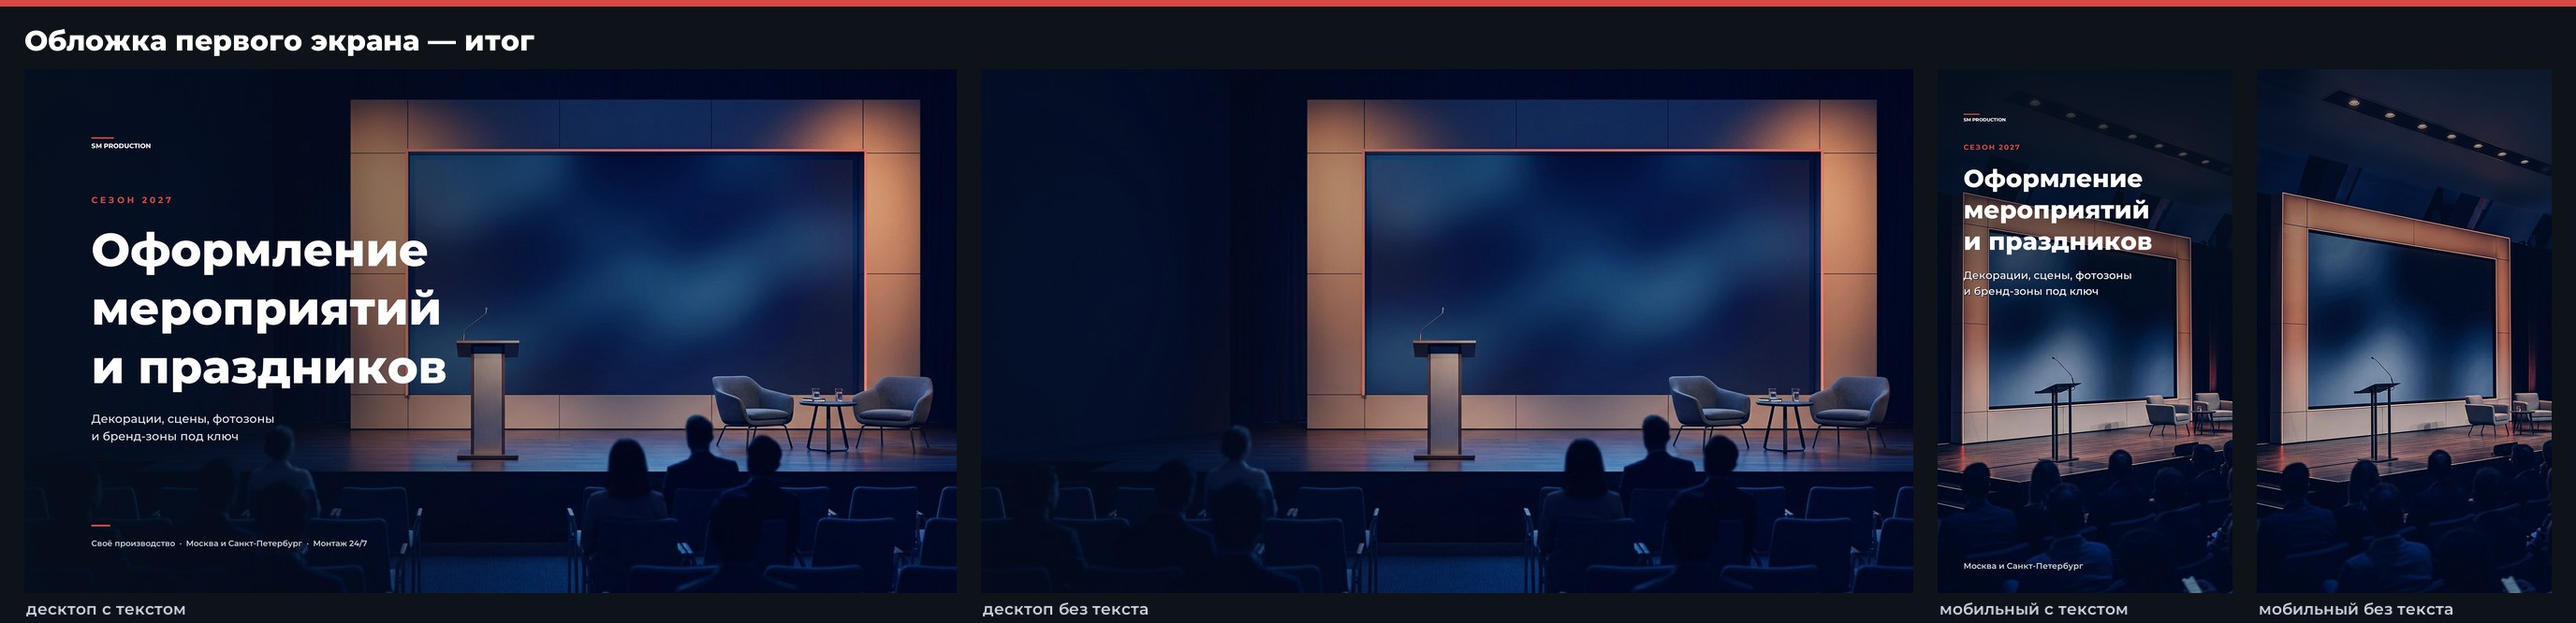
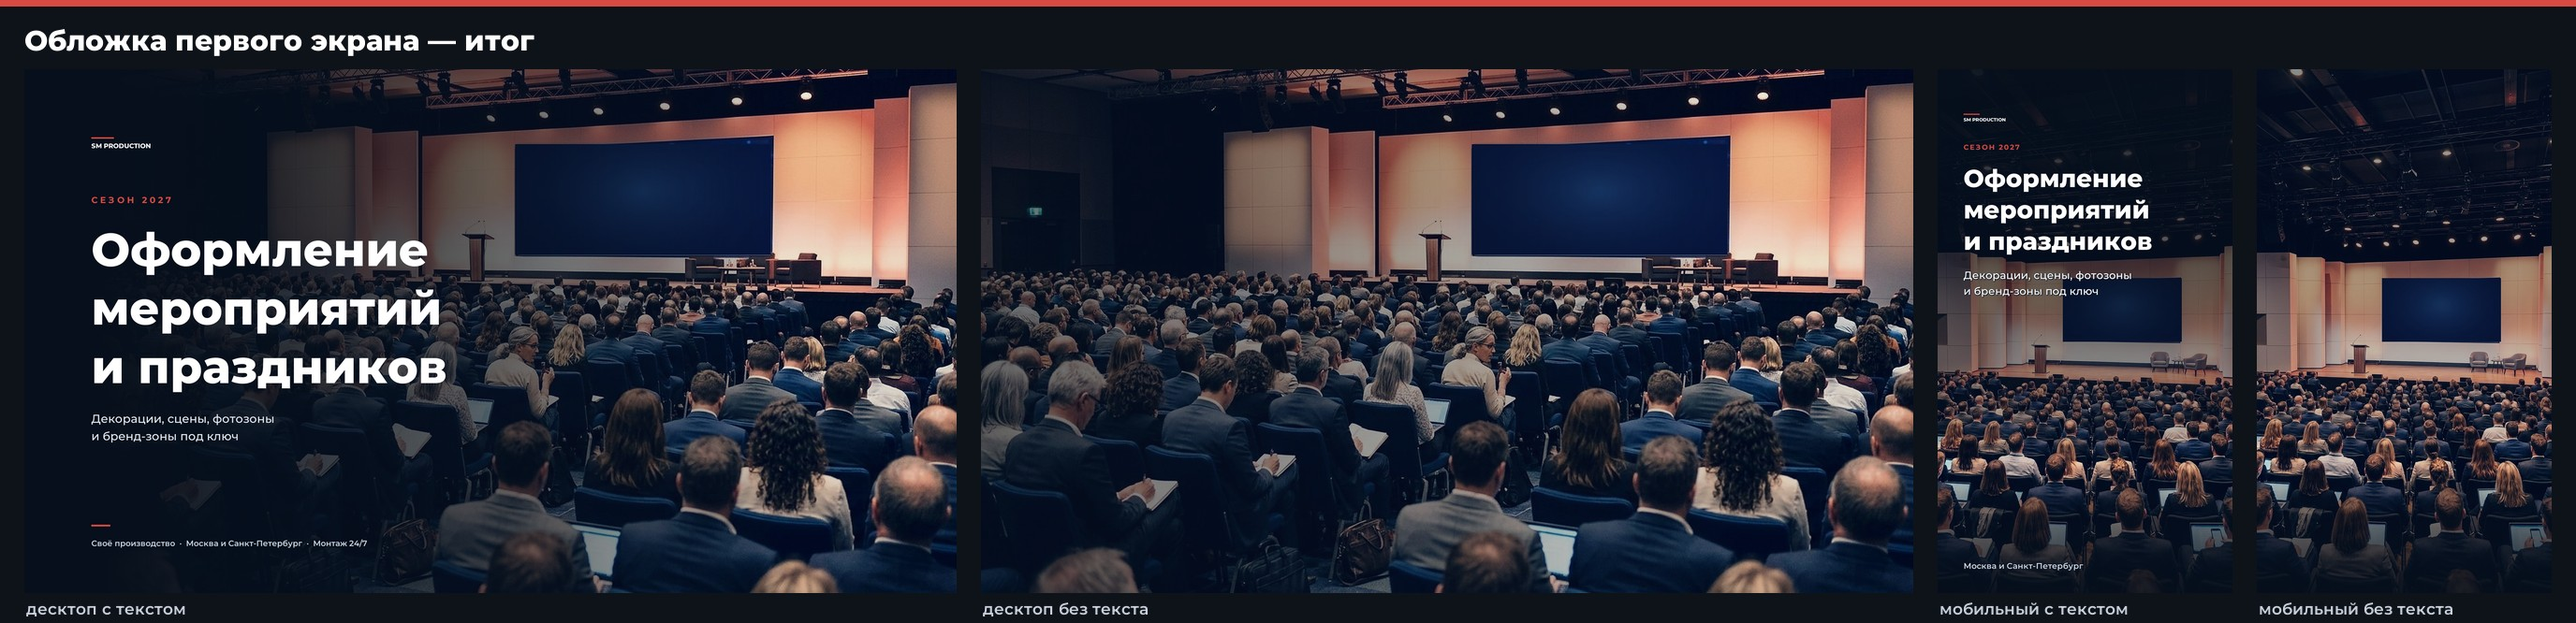
Fill the hall with realistic attendees, empty lectern, clean LED wall

diff --git a/marketing/site-hero/build_cover.py b/marketing/site-hero/build_cover.py
@@ -161,6 +161,14 @@ def text_scrim(image: Image.Image, side: str = "left", strength: int = 238,
             t = 1 - y / band
             d.rectangle([0, y, w, y + 1], fill=(6, 15, 27, int(strength * t ** power)))
 
+    if side == "top":
+        # нижняя подпись стоит на светящихся экранах ноутбуков — гасим отдельной полосой
+        foot = int(h * 0.22)
+        for i in range(foot):
+            y = h - 1 - i
+            t = 1 - i / foot
+            d.rectangle([0, y, w, y + 1], fill=(6, 15, 27, int(238 * t ** 0.55)))
+
     if veil:
         veil_layer = Image.new("RGBA", (w, h), (6, 15, 27, veil))
         layer = Image.alpha_composite(layer, veil_layer)
@@ -211,9 +219,9 @@ def lockup(draw, x: int, y: int, size: int, accent=CORAL, fill=WHITE) -> int:
 
 def compose_desktop(image: Image.Image, with_text: bool) -> Image.Image:
     w, h = image.size
-    img = text_scrim(vignette(grade(image), 0.30), "left", 218, fade=0.70, power=1.05)
+    img = text_scrim(vignette(grade(image), 0.30), "left", 272, fade=0.80, power=0.58)
     if not with_text:
-        return text_scrim(vignette(grade(image), 0.30), "left", 120, fade=0.70, power=1.05)
+        return text_scrim(vignette(grade(image), 0.30), "left", 140, fade=0.80, power=0.58)
 
     draw = ImageDraw.Draw(img)
     m = round(w * 0.072)
@@ -251,9 +259,9 @@ def compose_desktop(image: Image.Image, with_text: bool) -> Image.Image:
 
 def compose_mobile(image: Image.Image, with_text: bool) -> Image.Image:
     w, h = image.size
-    img = text_scrim(vignette(grade(image), 0.30), "top", 232, fade=0.62, power=0.9)
+    img = text_scrim(vignette(grade(image), 0.30), "top", 244, fade=0.74, power=0.62)
     if not with_text:
-        return text_scrim(vignette(grade(image), 0.32), "top", 110, fade=0.62, power=0.9)
+        return text_scrim(vignette(grade(image), 0.32), "top", 110, fade=0.74, power=0.62)
 
     draw = ImageDraw.Draw(img)
     m = round(w * 0.088)
@@ -298,8 +306,8 @@ def save(image: Image.Image, name: str, max_kb: int) -> None:
 
 
 def main() -> int:
-    desk = Image.open(SRC / "scene-conf.jpg").convert("RGB")
-    mob_src = Image.open(SRC / "scene-conf-mobile.jpg").convert("RGB")
+    desk = Image.open(SRC / "scene-conf-v4-big.jpg").convert("RGB")
+    mob_src = Image.open(SRC / "scene-conf-v5-big.jpg").convert("RGB")
 
     # приводим сцены к точным целевым размерам до наложения текста
     desk_wide = cover_crop(desk, (2560, 1440), (0.5, 0.45))

diff --git a/marketing/site-hero/cover/README.md b/marketing/site-hero/cover/README.md
@@ -6,12 +6,12 @@
 
 | Файл | Размер | Вес | Куда |
 | --- | --- | --- | --- |
-| `cover-desktop-text-2560x1440.jpg` | 2560×1440 | 272 КБ | ретина-экраны, если Tilda принимает |
-| `cover-desktop-text-1920x1080.jpg` | 1920×1080 | 185 КБ | **основной файл для главной** |
-| `cover-desktop-clean-1920x1080.jpg` | 1920×1080 | 141 КБ | если заголовок остаётся текстом в HTML |
-| `cover-mobile-text-1080x1920.jpg` | 1080×1920 | 226 КБ | телефон, отдельный фон |
-| `cover-mobile-clean-1080x1920.jpg` | 1080×1920 | 189 КБ | телефон без текста |
-| `og-1200x630.jpg` | 1200×630 | 94 КБ | соцпревью для ссылок |
+| `cover-desktop-text-2560x1440.jpg` | 2560×1440 | 431 КБ | ретина-экраны, если Tilda принимает |
+| `cover-desktop-text-1920x1080.jpg` | 1920×1080 | 292 КБ | **основной файл для главной** |
+| `cover-desktop-clean-1920x1080.jpg` | 1920×1080 | 294 КБ | если заголовок остаётся текстом в HTML |
+| `cover-mobile-text-1080x1920.jpg` | 1080×1920 | 288 КБ | телефон, отдельный фон |
+| `cover-mobile-clean-1080x1920.jpg` | 1080×1920 | 270 КБ | телефон без текста |
+| `og-1200x630.jpg` | 1200×630 | 139 КБ | соцпревью для ссылок |
 | `preview.jpg` | — | — | все варианты на одном листе |
 
 ## Что было не так в первой версии
@@ -25,6 +25,19 @@
 - мобильная версия пересобрана в **той же геометрии**, что десктоп: раньше это были две разные сцены, и на телефоне показывалась рама другой формы.
 
 Проверка: перед публикацией любой такой кадр смотреть в 100% масштабе на верхнюю планку каше и на стойки. На общем плане складки не видны, в зуме — видны сразу.
+
+## Четвёртая версия: полный зал и живые люди
+
+Третья версия показывала зал силуэтами: часть кресел пустая, люди читались как тёмные пятна. Для первого экрана это слабо — пропадал масштаб и не было ощущения живого события.
+
+Что исправлено:
+
+- зал заполнен целиком, свободных кресел в кадре нет; люди сидят плечом к плечу в плотных рядах;
+- люди реалистичные: костюмы, рубашки, разные возрасты и причёски, кто-то пишет в блокноте, у кого-то ноутбук, сумки под креслами. Ближние ряды в мягком расфокусе — как при съёмке длинным объективом;
+- кафедра на сцене **пустая**: спикер забирал внимание и спорил с заголовком, а на мобильном попадал прямо в зону текста;
+- LED-экран перезалит ровным синим градиентом: генерация давала на нём случайный рисунок и сетку, в 100 % это читалось как артефакт.
+
+Каше проверено в 100 %: панели плоские, швы ровные, углы прямые. Трибуна и лаунж (два кресла и столик) — без изменений.
 
 ## Третья версия: деловые мероприятия, а не концерт
 
@@ -40,9 +53,9 @@
 
 | Зона | Десктоп | Мобильный |
 | --- | --- | --- |
-| Заголовок | 5,4–7,4:1 | 7,2–17,7:1 |
-| Подзаголовок | 6,9:1 | 6,6:1 |
-| Нижняя строка | 15:1 | 17,7:1 |
+| Заголовок | 8,2–12,4:1 | 17,6–18,3:1 |
+| Подзаголовок | 11,8:1 | 7,1:1 |
+| Нижняя строка | 16,8:1 | 8,6:1 |
 
 ## Почему так, а не иначе
 
